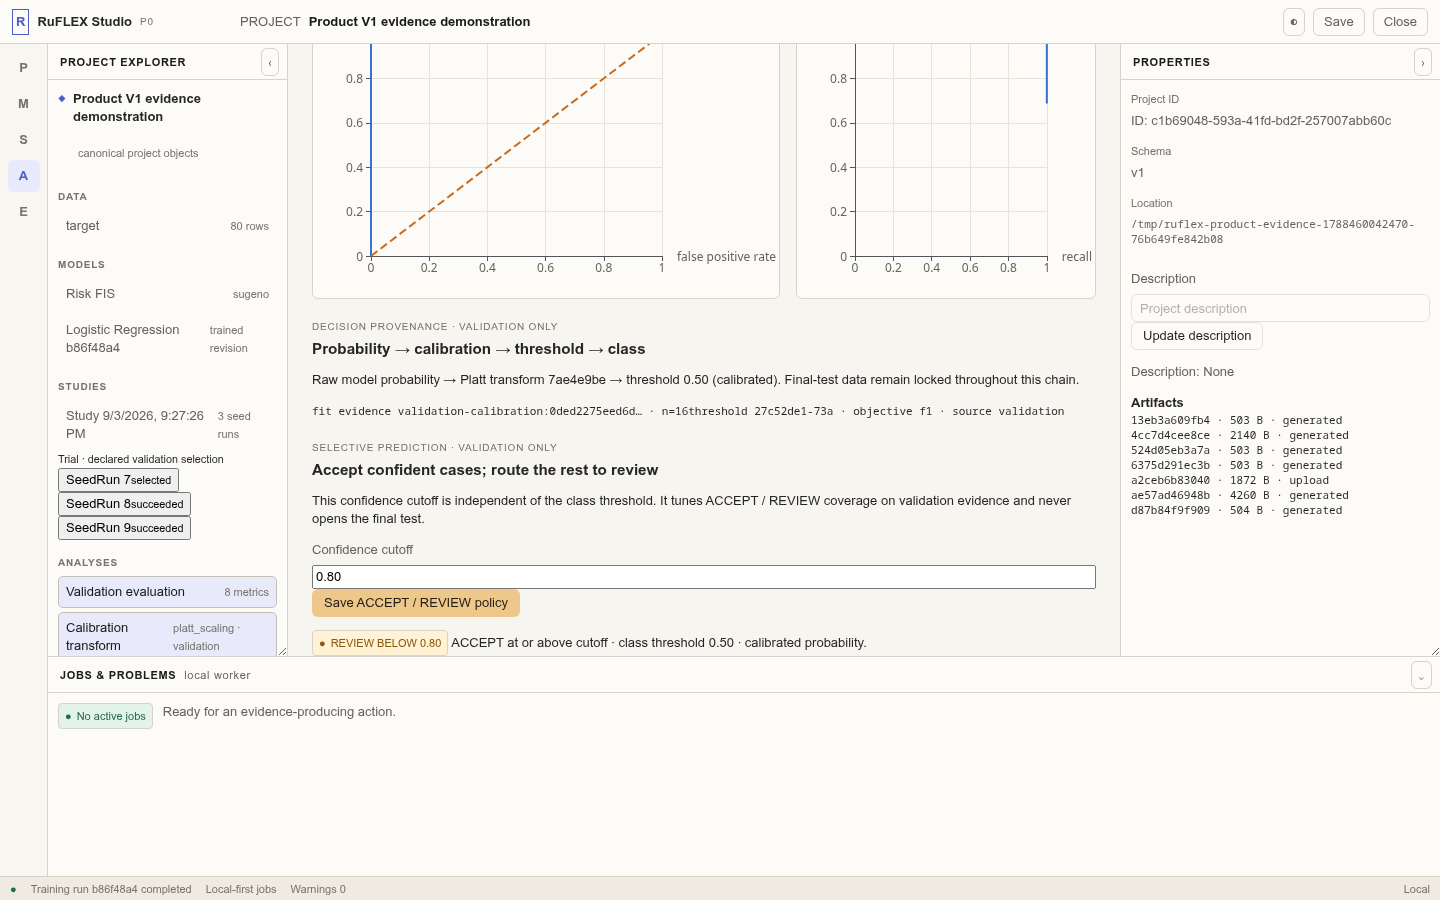
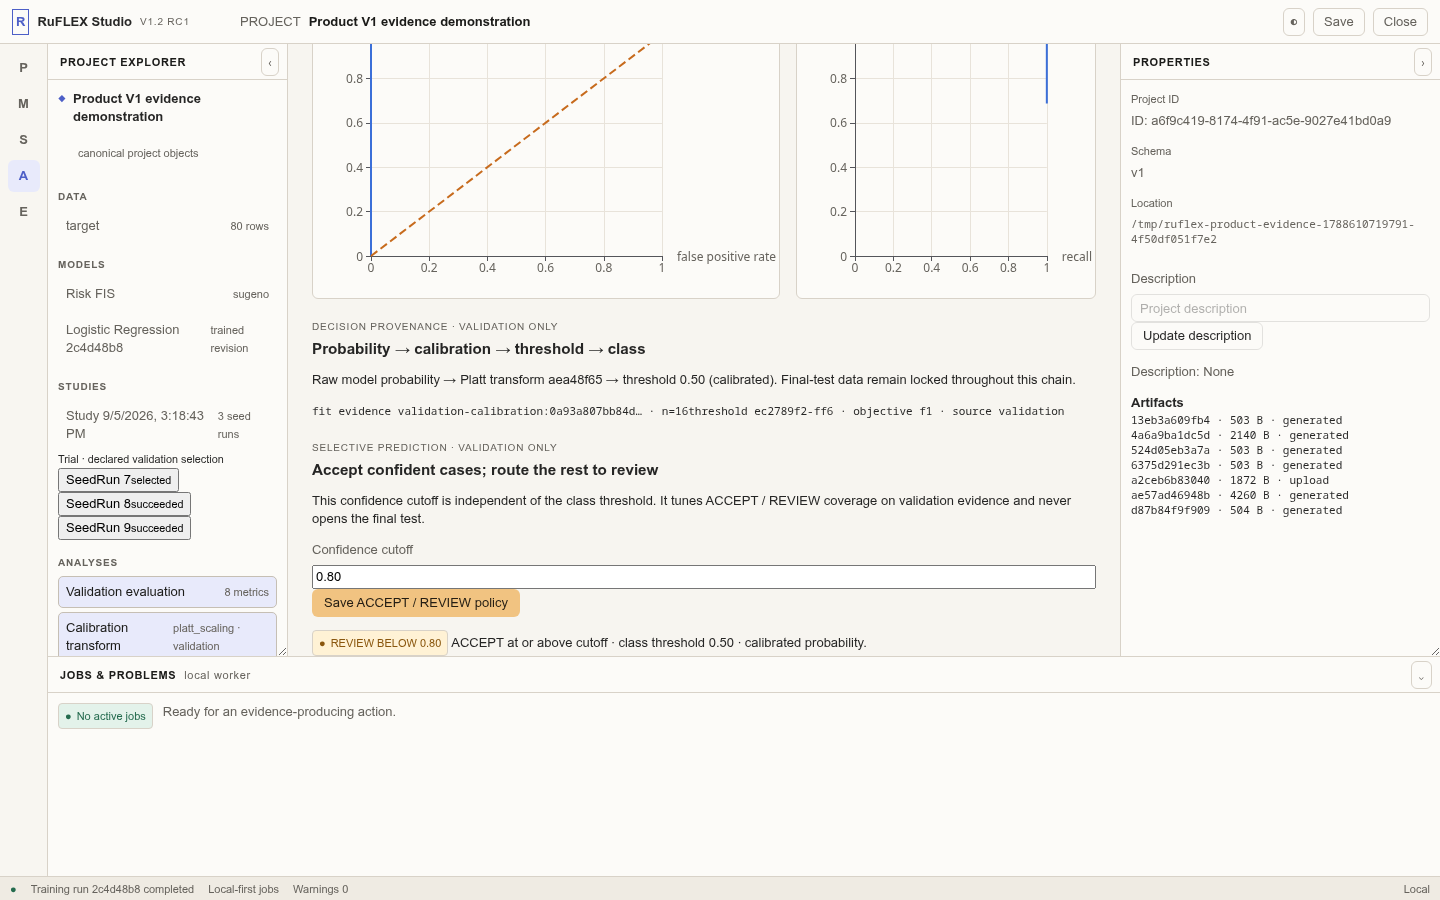
Refresh V1.2 Studio product evidence captures

diff --git a/frontend/src/shell/AppShell.tsx b/frontend/src/shell/AppShell.tsx
@@ -57,7 +57,7 @@ export function AppShell({
         <div className="brand">
           <span className="brand-mark">R</span>
           <strong>RuFLEX Studio</strong>
-          <span className="version">P0</span>
+          <span className="version">V1.2 RC1</span>
         </div>
         <div className="project-identity">
           {projectName ? (

diff --git a/docs/product/PRODUCT_V1_EVIDENCE_MANIFEST.md b/docs/product/PRODUCT_V1_EVIDENCE_MANIFEST.md
@@ -1,6 +1,10 @@
 # RuFLEX Product V1 evidence manifest
 
-This is **product implementation evidence**, captured from the frozen RC2.1 React Studio by `frontend/e2e/product-evidence-capture.spec.ts`. It is not a research benchmark package; `docs/article/` remains separate research material. Runtime UUIDs for the capture project are recorded in `PRODUCT_V1_EVIDENCE_RUNTIME.json`.
+This is **product implementation evidence**, captured from the V1.2 RC1 React
+Studio by `frontend/e2e/product-evidence-capture.spec.ts`. It is not a research
+benchmark package; `docs/article/` remains separate research material. Runtime
+UUIDs for the capture project are recorded in
+`PRODUCT_V1_EVIDENCE_RUNTIME.json`.
 
 | Screenshot | Capability / persisted objects | Evidence class | Proves | Does not prove | Route and coverage |
 |---|---|---|---|---|---|
@@ -18,7 +22,7 @@ This is **product implementation evidence**, captured from the frozen RC2.1 Reac
 | 12_selective_review_policy.png | SelectivePredictionPolicy | behavioral | Validation-derived ACCEPT/REVIEW cutoff is distinct from class threshold | Automatic acceptance is always appropriate | capture; selective policy E2E |
 | 13_exhaustive_lab.png | ExhaustiveLabResult | exact finite structure | Exact decision-tree finite paths are enumerated and labelled honestly | Arbitrary continuous model exhaustiveness | capture; Exhaustive Lab E2E |
 | 14_expert_correction.png | ExpertCorrectionRevision | structural/behavioral | FIS revision retains expert structure while fitting unlocked consequents on TRAIN only | Improvement on the locked final test | capture; expert correction tests |
-| 15_lineage.png | LineageGraph, FIS revision, BehaviorSpec, BehaviorSpecResult | structural | Saved references include the RC2.1 FIS revision → BehaviorSpec → result chain after reopen | A causal graph or execution prescription | capture; lineage regression test |
+| 15_lineage.png | LineageGraph, FIS revision, BehaviorSpec, BehaviorSpecResult | structural | Saved references include the persisted FIS revision → BehaviorSpec → result chain after reopen | A causal graph or execution prescription | capture; lineage regression test |
 | 16_assurance_case.png | AssuranceCase | operational | Independent PASS/WARN/FAIL/NOT_AVAILABLE gates and risks, without a trust score | A scalar safety/trust conclusion | capture; assurance E2E |
 | 17_verification_bundle.png | VerificationBundle, VerificationBundleValidation | operational | Inspection-first declarative export is validated from its persisted ZIP by checksums, typed evidence and direct provenance references | Export contains executable models or sensitive raw data; validation establishes model quality | capture; assurance E2E |
 | 18_condition_monitoring_demo.png | DemoDecision with linked evidence | operational | Safe telemetry decision support yields ACCEPT/REVIEW/OUT_OF_SCOPE and names evidence links | Targeting, actuator control, or autonomous command | capture; demo E2E |

diff --git a/docs/product/PRODUCT_V1_DEMONSTRATION.md b/docs/product/PRODUCT_V1_DEMONSTRATION.md
@@ -35,7 +35,7 @@ BehaviorSpecs execute persisted PASS/FAIL requirements ([BehaviorSpecs](screensh
 
 ## 8. Final-test firewall, lineage and assurance
 
-The demonstration opens final test only after the validation policy is frozen. Saved provenance is visible in [Lineage](screenshots/15_lineage.png), including the RC2.1 `FIS revision → BehaviorSpec → BehaviorSpecResult` edge. [AssuranceCase](screenshots/16_assurance_case.png) presents independent evidence gates and unresolved risks rather than a scalar trust number. [VerificationBundle](screenshots/17_verification_bundle.png) is inspection-first and excludes executable model objects, raw datasets, credentials and caches.
+The demonstration opens final test only after the validation policy is frozen. Saved provenance is visible in [Lineage](screenshots/15_lineage.png), including the persisted `FIS revision → BehaviorSpec → BehaviorSpecResult` edge. [AssuranceCase](screenshots/16_assurance_case.png) presents independent evidence gates and unresolved risks rather than a scalar trust number. [VerificationBundle](screenshots/17_verification_bundle.png) is inspection-first and excludes executable model objects, raw datasets, credentials and caches.
 
 ## 9. Condition monitoring and persistence
 
